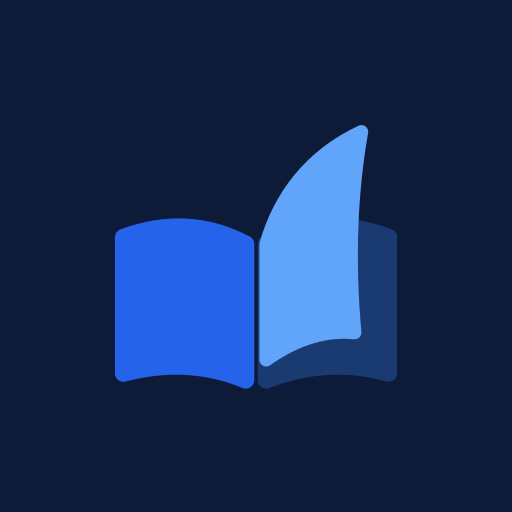
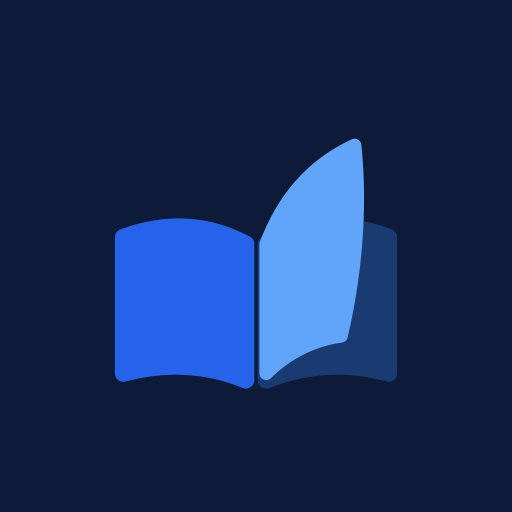
Folha do símbolo presa na lombada e quadro final da abertura sem halo
A folha em virada agora sai da lombada inteira e tem a borda livre curva, como uma página de verdade no meio da virada. A luz da abertura some no fim, então o último quadro fica igual ao logo. Ícones e favicons regerados.

Claude-Session: https://claude.ai/code/session_01Ds1uhwxK3GAErHRhHogpQk

diff --git a/index.html b/index.html
@@ -441,7 +441,7 @@
   @keyframes ibOpen{ to{ transform:rotateY(0deg); } }
   @keyframes ibPass{ 0%{ opacity:0; transform:rotateY(0deg); } 16%{ opacity:.78; } 70%{ opacity:.55; } 100%{ opacity:0; transform:rotateY(-180deg); } }
   @keyframes ibLeaf{ 0%{ opacity:0; transform:rotateY(-78deg); } 35%{ opacity:1; } 100%{ opacity:1; transform:rotateY(0deg); } }
-  @keyframes ibGlow{ 0%{ opacity:0; transform:scale(.6); } 40%{ opacity:1; } 100%{ opacity:.5; transform:scale(1); } }
+  @keyframes ibGlow{ 0%{ opacity:0; transform:scale(.6); } 40%{ opacity:1; } 100%{ opacity:0; transform:scale(1.15); } }
   @keyframes ibRay{ 0%{ opacity:0; transform:scaleY(.2); } 35%{ opacity:1; } 100%{ opacity:0; transform:scaleY(1); } }
   @keyframes ibRise{ to{ transform:none; } }
   @keyframes ibLetter{ to{ opacity:1; transform:none; filter:none; } }
@@ -611,7 +611,7 @@ const DEV_MODE = false;
 const BRAND_NAME = 'Study';
 const BOOK_L = 'M9 42Q28 35 45 44L45 84Q28 77 9 82Z';   // página esquerda
 const BOOK_R = 'M51 44Q69 35 87 42L87 82Q69 77 51 84Z'; // página de fundo
-const BOOK_F = 'M51 44C55 30 64 18 79 11C76 28 75 48 77 70C67 69 58 73 51 78Z'; // folha em virada
+const BOOK_F = 'M51 44C56 31 64 21 77 15C79 34 77 54 73 71C65 72 57 76 51 82Z'; // folha em virada: presa na lombada, borda livre curva
 function BrandSymbol({size=32, className='', title}){
   const small = size < 24;
   return (
